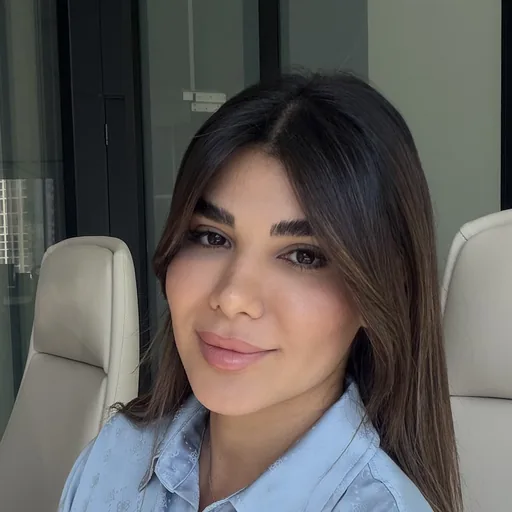
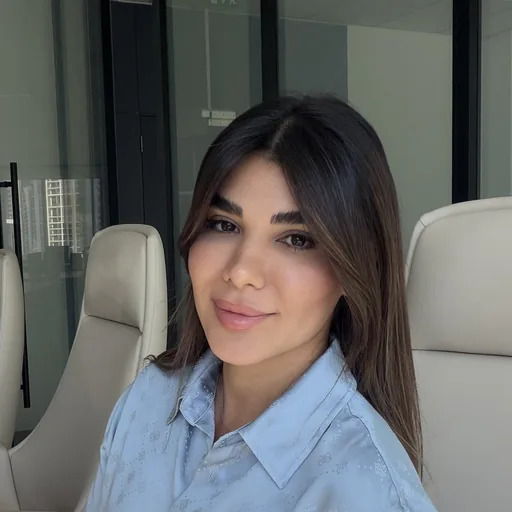
Site and panel: wider crop of Dr. Negar Teymouri photo

diff --git a/counselors/index.html b/counselors/index.html
@@ -914,7 +914,7 @@
           </div>
 
           <div class="counselor-card" id="cns-18">
-            <div class="counselor-card__avatar has-photo" data-modal="cns-18"><img src="../assets/img/negar-teymouri-portrait.webp?v=20261114" alt="دکتر نگار تیموری" width="512" height="512" decoding="async" loading="lazy"><span class="counselor-card__badge"><svg width="11" height="11" viewBox="0 0 24 24" fill="none"><path d="M4 12l5 5L20 6" stroke="white" stroke-width="3" stroke-linecap="round" stroke-linejoin="round"/></svg></span></div>
+            <div class="counselor-card__avatar has-photo" data-modal="cns-18"><img src="../assets/img/negar-teymouri-portrait.webp?v=20261114b" alt="دکتر نگار تیموری" width="512" height="512" decoding="async" loading="lazy"><span class="counselor-card__badge"><svg width="11" height="11" viewBox="0 0 24 24" fill="none"><path d="M4 12l5 5L20 6" stroke="white" stroke-width="3" stroke-linecap="round" stroke-linejoin="round"/></svg></span></div>
             <div class="counselor-card__body">
               <div class="counselor-card__name"><span data-i18n="fa" lang="fa">دکتر نگار تیموری</span>
 <span data-i18n="en" lang="en">Dr. Negar Teymouri</span></div>

diff --git a/index.html b/index.html
@@ -714,7 +714,7 @@
           </a>
           <a class="counselor-marquee__item" href="counselors/index.html#cns-18" data-counselor="cns-18">
             <span class="counselor-marquee__avatar-wrap" style="animation-delay:-9.0s">
-              <span class="counselor-marquee__avatar"><img src="assets/img/negar-teymouri-portrait.webp?v=20261114" alt="دکتر نگار تیموری" width="512" height="512" decoding="async" loading="lazy"><span class="counselor-marquee__ring"></span></span>
+              <span class="counselor-marquee__avatar"><img src="assets/img/negar-teymouri-portrait.webp?v=20261114b" alt="دکتر نگار تیموری" width="512" height="512" decoding="async" loading="lazy"><span class="counselor-marquee__ring"></span></span>
             </span>
             <span class="counselor-marquee__name"><span data-i18n="fa" lang="fa">دکتر نگار تیموری</span>
 <span data-i18n="en" lang="en">Dr. Negar Teymouri</span></span>
